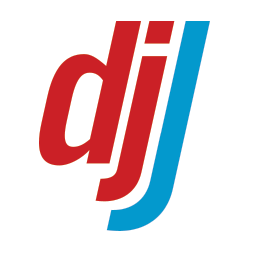
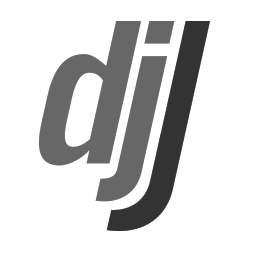
Desaturate

Changed region(s): [[0.125, 0.0625, 0.8438, 0.9062]]

diff --git a/index.html b/index.html
@@ -43,16 +43,10 @@
       <div class='container'>
         <div class='row'>
           <div class='col-md-7'>
-            <h3>
-              Mixes
-            </h3>
             <iframe width="100%" height="180" src="//www.mixcloud.com/widget/iframe/?feed=http%3A%2F%2Fwww.mixcloud.com%2Fdjjolene%2Fskylight%2F&amp;embed_uuid=04727dfa-44a7-413e-9751-9e63434adc14&amp;replace=0&amp;embed_type=widget_standard&amp;hide_tracklist=1" frameborder="0"></iframe><div style="clear: both; height: 3px; width: auto;"></div><p style="display: block; font-size: 11px; font-family: 'Open Sans', Helvetica, Arial, sans-serif; margin: 0px; padding: 3px 4px; color: rgb(153, 153, 153); width: auto;"><a href="http://www.mixcloud.com/djjolene/skylight/?utm_source=widget&amp;amp;utm_medium=web&amp;amp;utm_campaign=base_links&amp;amp;utm_term=resource_link" target="_blank" style="color:#808080; font-weight:bold;">Skylight</a><span> by </span><a href="http://www.mixcloud.com/djjolene/?utm_source=widget&amp;amp;utm_medium=web&amp;amp;utm_campaign=base_links&amp;amp;utm_term=profile_link" target="_blank" style="color:#808080; font-weight:bold;">Dj Jolene</a><span> on </span><a href="http://www.mixcloud.com/?utm_source=widget&amp;utm_medium=web&amp;utm_campaign=base_links&amp;utm_term=homepage_link" target="_blank" style="color:#808080; font-weight:bold;"> Mixcloud</a></p><div style="clear: both; height: 3px; width: auto;"></div>
             <iframe width="100%" height="180" src="//www.mixcloud.com/widget/iframe/?feed=http%3A%2F%2Fwww.mixcloud.com%2Fdjjolene%2Fpotent-purple%2F&amp;embed_uuid=707193d1-a19d-45bc-aced-3a531381de1f&amp;replace=0&amp;embed_type=widget_standard&amp;hide_tracklist=1" frameborder="0"></iframe><div style="clear: both; height: 3px; width: auto;"></div><p style="display: block; font-size: 11px; font-family: 'Open Sans', Helvetica, Arial, sans-serif; margin: 0px; padding: 3px 4px; color: rgb(153, 153, 153); width: auto;"><a href="http://www.mixcloud.com/djjolene/potent-purple/?utm_source=widget&amp;amp;utm_medium=web&amp;amp;utm_campaign=base_links&amp;amp;utm_term=resource_link" target="_blank" style="color:#808080; font-weight:bold;">Potent Purple</a><span> by </span><a href="http://www.mixcloud.com/djjolene/?utm_source=widget&amp;amp;utm_medium=web&amp;amp;utm_campaign=base_links&amp;amp;utm_term=profile_link" target="_blank" style="color:#808080; font-weight:bold;">Dj Jolene</a><span> on </span><a href="http://www.mixcloud.com/?utm_source=widget&amp;utm_medium=web&amp;utm_campaign=base_links&amp;utm_term=homepage_link" target="_blank" style="color:#808080; font-weight:bold;"> Mixcloud</a></p><div style="clear: both; height: 3px; width: auto;"></div>
           </div>
           <div class='col-md-5'>
-            <h3>
-              About your DJ
-            </h3>
             <p>
               <img alt='A picture of DJ Jolene' class='img-thumbnail img-responsive' src='dj-jolene-bw.png'>
             </p>

diff --git a/site.css b/site.css
@@ -1,1 +1,1 @@
-.banner{padding:15px 0;margin:0 0 20px 0;background:#555}.banner h1,.banner h2{padding:0;margin:0}.banner h1{display:none}.banner h2{color:#fff;line-height:30px;margin:16px 0 0 0;padding:0;font-weight:300;font-size:24px;opacity:0.8}h3{color:#666}.contact{margin-top:15px}
+.banner{padding:15px 0;margin:0 0 30px 0;background:#555}.banner h1,.banner h2{padding:0;margin:0}.banner h1{display:none}.banner h2{color:#fff;line-height:30px;margin:16px 0 0 0;padding:0;font-weight:300;font-size:24px;opacity:0.8}h3{color:#666}.contact{margin-top:15px}.btn-default{background:#e5e5e5}

diff --git a/site.css.scss b/site.css.scss
@@ -1,7 +1,7 @@
 .banner {
 
   padding: 15px 0;
-  margin: 0 0 20px 0;
+  margin: 0 0 30px 0;
   background: #555;
 
   h1, h2  {
@@ -29,6 +29,9 @@ h3 {
 }
 
 .contact {
-
   margin-top: 15px;
+}
+
+.btn-default {
+  background: #e5e5e5;
 }
